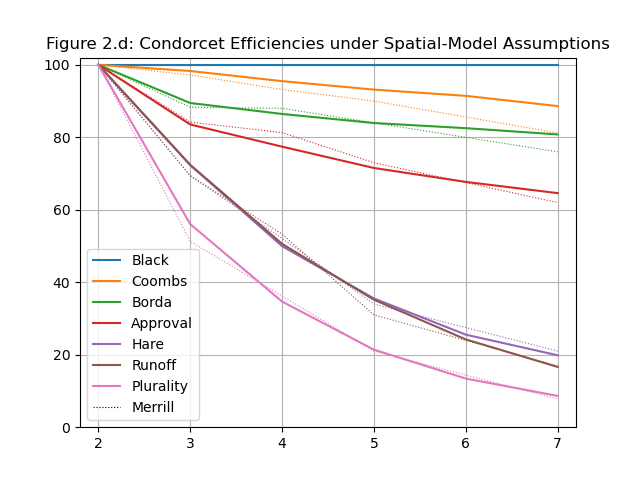
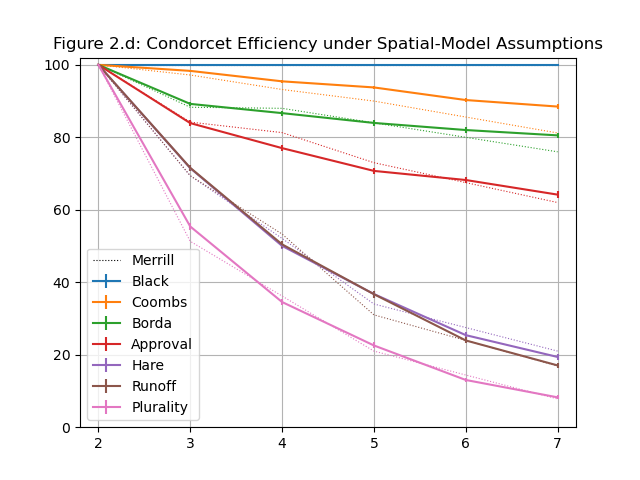
Convert error from absolute to relative
proportion_ci outputs absolute values, but plt.errorbar requires
values relative to the original data.

Update results images

diff --git a/examples/merrill_1984_fig_2c_2d.py b/examples/merrill_1984_fig_2c_2d.py
@@ -143,10 +143,14 @@ for fig, disp, ymin, orig in (('2.c', 1.0, 50, merrill_fig_2c),
                    'Plurality'):
         x, y = zip(*sorted(condorcet_winner_count[method].items()))
         CE = np.array(y)/y_cw
+
+        # Add 95% confidence interval error bars (Clopper-Pearson exact method)
         ci = np.empty((2, len(y)))
         for i in range(len(y)):
             ci[:, i] = binomtest(y[i], y_cw[i]).proportion_ci()
-        plt.errorbar(x, CE*100, ci*100, fmt='-', label=method)
+        yerr = ci - CE
+        yerr[0] = -yerr[0]
+        plt.errorbar(x, CE*100, yerr*100, fmt='-', label=method)
         table.append([method, *CE*100])
 
     print(tabulate(table, ["Method", *x], tablefmt="pipe", floatfmt='.1f'))
